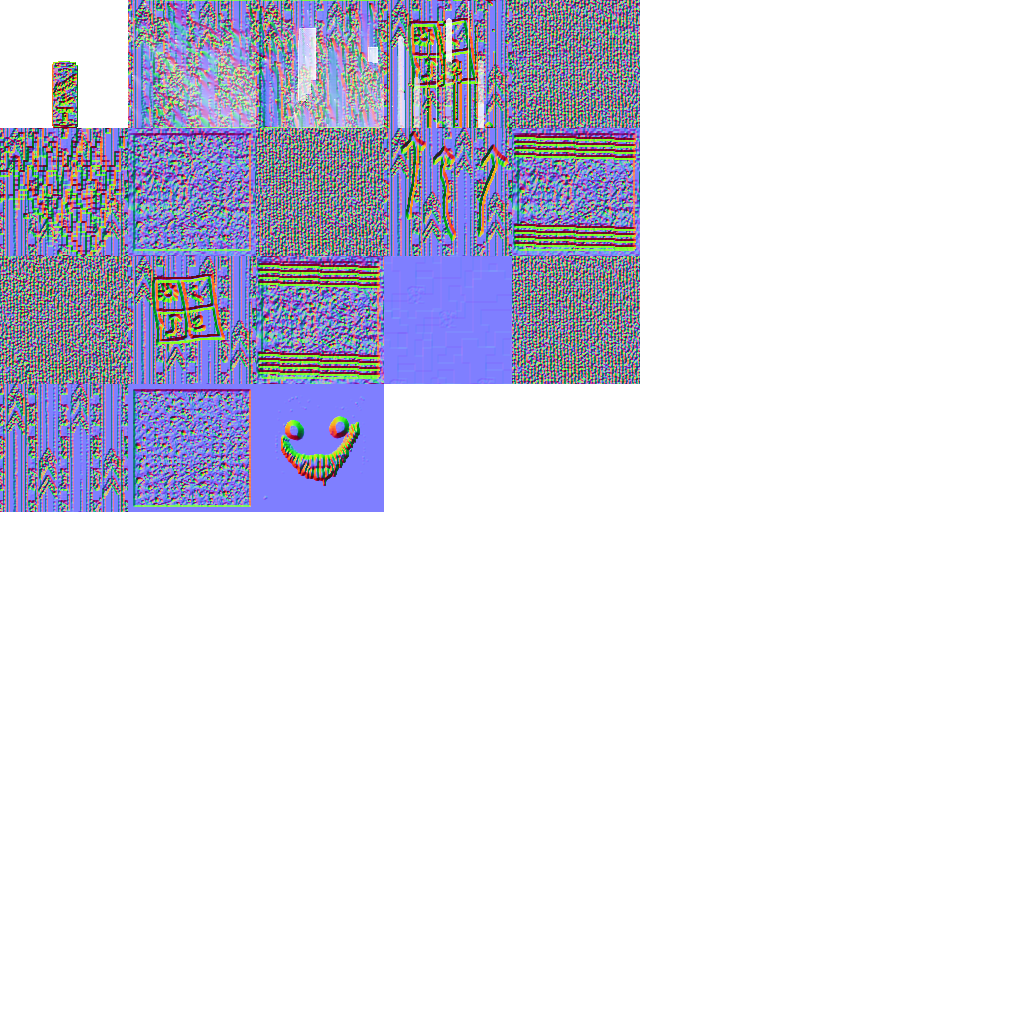
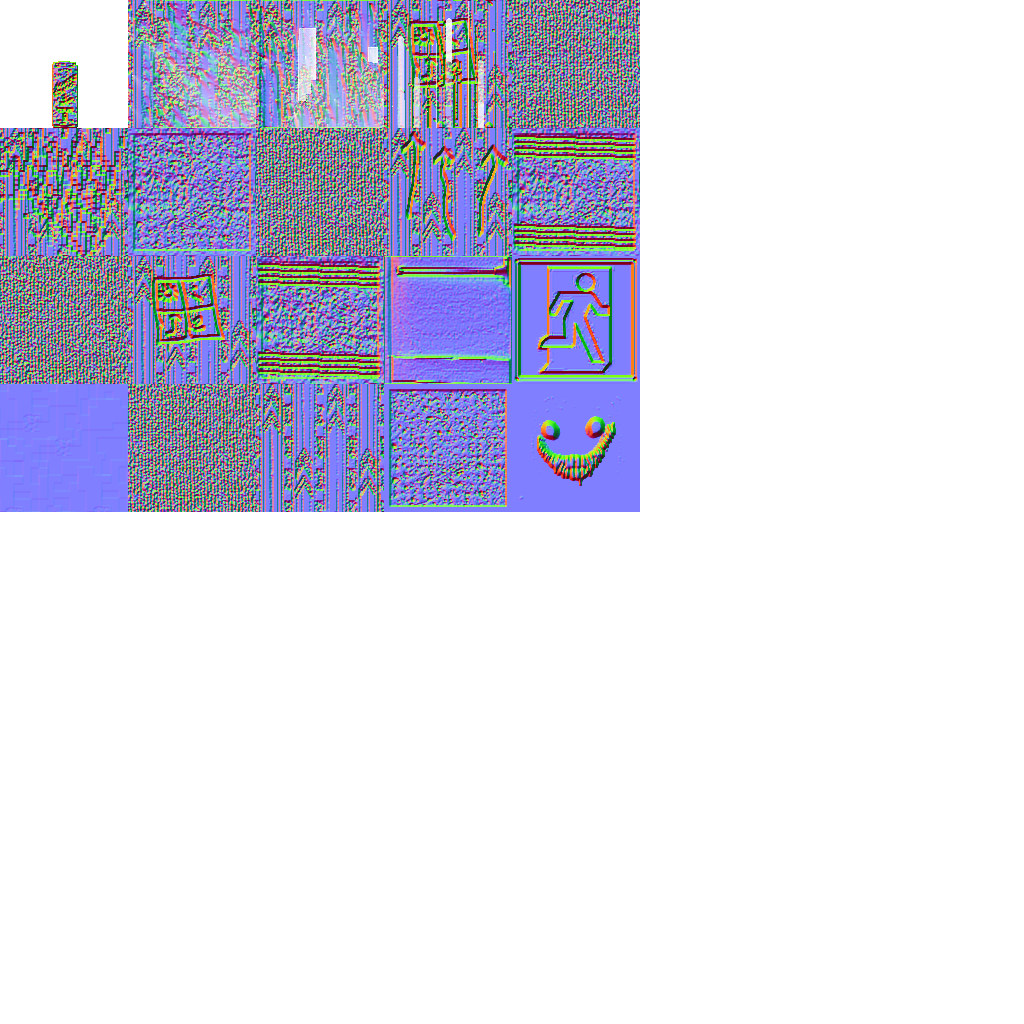
actual ending almost added

Changed region(s): [[0.0, 0.25, 0.625, 0.5]]

diff --git a/src/liminal.rs b/src/liminal.rs
@@ -243,9 +243,9 @@ impl application::Application for Liminal
           self.world.update_chunks(self.camera.inner.position, self.frame.dt);
           self.smilers.update(&self.player, self.frame.dt);
 
-          if self.almond_waters > 100 || self.player.collider.center().y > 100.0
+          if self.almond_waters > 100
           {
-               log::error!("Nice job! You escaped by finding the 100 almond waters or climbing 100 meters");
+               log::error!("Nice job! You escaped by finding the 100 almond waters");
                input.request_quit = !input.request_quit;
           }
 
@@ -309,50 +309,42 @@ impl application::Application for Liminal
 
                     if rand::random_bool(0.025)
                     {
+                         let position = self.camera.inner.position
+                              + glam::vec3(
+                                   rand::random_range(-256.0 .. 256.0),
+                                   rand::random_range(-8.0 .. 8.0),
+                                   rand::random_range(-256.0 .. 256.0),
+                              );
+                         self.smilers.add_smiler(transform::Transform::from_position(position));
                          self.sounds.named_sound_directional(
                               &mut self.audio,
                               "follow",
-                              self.camera.inner.position - self.camera.inner.forward(),
+                              self.camera.inner.position - self.camera.inner.forward() * 10.0,
                          );
-
-                         self.smilers.add_smiler(transform::Transform::from_position(
-                              self.camera.inner.position
-                                   + glam::vec3(
-                                        rand::random_range(-256.0 .. 256.0),
-                                        rand::random_range(-8.0 .. 8.0),
-                                        rand::random_range(-256.0 .. 256.0),
-                                   ),
-                         ));
-                    }
-                    if rand::random_bool(0.005)
-                    {
-                         self.smilers.add_smiler(transform::Transform::from_position(
-                              self.camera.inner.position
-                                   + glam::vec3(
-                                        rand::random_range(-256.0 .. 256.0),
-                                        rand::random_range(-8.0 .. 8.0),
-                                        rand::random_range(-256.0 .. 256.0),
-                                   ),
-                         ));
                     }
                }
           }
           if input.consume_mouse_right_press()
           {
-               // self.smilers.add_smiler(transform::Transform::from_position(
-               //      self.camera.inner.position
-               //           + glam::vec3(
-               //                rand::random_range(-64.0 .. 64.0),
-               //                rand::random_range(-8.0 .. 8.0),
-               //                rand::random_range(-64.0 .. 64.0),
-               //           ),
-               // ));
-
                self.camera.fov -= 32.0;
+               self.sounds.named_sound(&mut self.audio, "music");
+               let position = self.camera.inner.position
+                    + glam::vec3(
+                         rand::random_range(-256.0 .. 256.0),
+                         rand::random_range(-8.0 .. 8.0),
+                         rand::random_range(-256.0 .. 256.0),
+                    );
+               self.smilers.add_smiler(transform::Transform::from_position(position));
+               self.sounds.named_sound_directional(
+                    &mut self.audio,
+                    "follow",
+                    self.camera.inner.position - self.camera.inner.forward() * 10.0,
+               );
           }
           if input.consume_mouse_right_release()
           {
                self.camera.fov += 32.0;
+               self.sounds.named_sound_stop("music");
           }
 
           let mut unadd = Vec::new();
@@ -363,13 +355,22 @@ impl application::Application for Liminal
                          .dot(self.camera.inner.forward())
                          > 0.75
                {
-                    self.sounds.named_sound_attenuated(&mut self.audio, "puff", 24.0);
+                    self.sounds.named_sound_attenuated(&mut self.audio, "puff", 8.0);
                     unadd.push(index);
                }
           }
           for index in unadd
           {
                self.smilers.unadd_smiler(index);
+          }
+
+          if self.frame.tick.is_multiple_of(5000)
+          {
+               self.sounds.named_sound_directional(
+                    &mut self.audio,
+                    "bulbbreak",
+                    self.camera.inner.position + self.camera.inner.forward() * -10.0,
+               );
           }
 
           if let Some(listener) = &mut self.sounds.listener
@@ -411,7 +412,7 @@ impl application::Application for Liminal
                     }
                     if input.get_key_pres("space")
                     {
-                         self.player.kinematics.jump(9.5);
+                         self.player.kinematics.jump(8.0);
                     }
                     if input.get_key_pres("shiftleft")
                     {
@@ -427,7 +428,7 @@ impl application::Application for Liminal
                     let movement = (right * dx + forward * dz).normalize_or_zero();
                     self.player.kinematics.velocity.x += movement.x * frame_movement_speed * self.frame.dt;
                     self.player.kinematics.velocity.z += movement.z * frame_movement_speed * self.frame.dt;
-                    self.player.kinematics.apply_gravity(32.0, self.frame.dt);
+                    self.player.kinematics.apply_gravity(28.0, self.frame.dt);
                     self.player.kinematics.apply_drag(24.0, self.frame.dt);
                     self.player.collider =
                          self.player.kinematics.translate(self.player.collider, &self.world, self.frame.dt);

diff --git a/src/terrain/escape.rs b/src/terrain/escape.rs
@@ -1,0 +1,39 @@
+#![allow(unused)]
+
+use crate::engine::neighbors;
+use crate::terrain;
+use crate::world;
+use crate::world::block;
+use crate::world::delta;
+
+#[derive(Debug)]
+pub struct Escape;
+
+impl terrain::BiomeGeneration for Escape
+{
+     fn generate(
+          &self,
+          chunk: &mut world::chunk::Chunk,
+          noise: &noise::Perlin,
+          config: &terrain::TerrainConfig,
+          deltas: &mut delta::BlockDeltas,
+     )
+     {
+          let size = chunk.size();
+          for z in 0 .. size.z
+          {
+               for x in 0 .. size.x
+               {
+                    let coord = glam::ivec3(x, size.y - 1, z);
+                    *chunk.get_mut(coord) = block::Block::wall_block(0.5);
+               }
+          }
+
+          if chunk.world_position().y > 32
+          {
+               *chunk.get_mut(glam::ivec3(size.x / 2, 0, size.z / 2)) = block::Block::ExitDoor;
+               *chunk.get_mut(glam::ivec3(size.x / 2, 1, size.z / 2)) = block::Block::ExitDoor;
+               *chunk.get_mut(glam::ivec3(size.x / 2, 2, size.z / 2)) = block::Block::ExitSign;
+          }
+     }
+}

diff --git a/src/engine/player.rs b/src/engine/player.rs
@@ -48,6 +48,7 @@ pub struct PlayerHeadBobber
      pub minor_amp: f32,
 
      velocity_coeff: f32,
+     pub zero_velocity: f32,
 }
 
 impl PlayerHeadBobber
@@ -59,7 +60,8 @@ impl PlayerHeadBobber
                minor_freq: f32::consts::TAU * 4.0,
                major_amp: 0.05,
                minor_amp: 0.0125,
-               velocity_coeff: 1.0 / 3.0,
+               velocity_coeff: 0.25,
+               zero_velocity: 0.05,
           }
      }
 
@@ -75,7 +77,7 @@ impl PlayerHeadBobber
           let up = camera.inner.up();
           let right = camera.inner.right();
           let velocity = kinematics.velocity.with_y(0.0).length();
-          let wobble_factor = self.velocity_coeff * velocity;
+          let wobble_factor = self.velocity_coeff * velocity + self.zero_velocity;
 
           right * (cmaj * self.major_amp + cmin * self.minor_amp) * wobble_factor
                + up * (smaj * self.major_amp + smin * self.minor_amp) * wobble_factor
@@ -90,7 +92,8 @@ pub struct PlayerSoundController
      pub ambience: Option<static_sound::StaticSoundData>,
      pub listener: Option<listener::ListenerHandle>,
 
-     pub tracks: Vec<track::SpatialTrackHandle>,
+     pub spatial_tracks: Vec<track::SpatialTrackHandle>,
+     pub tracks: Vec<(static_sound::StaticSoundHandle, &'static str)>,
 
      last_sound: usize,
      last_sound_time: f32,
@@ -145,6 +148,7 @@ impl PlayerSoundController
           }
 
           let listener = None;
+          let spatial_tracks = Vec::new();
           let tracks = Vec::new();
 
           Ok(Self {
@@ -152,6 +156,7 @@ impl PlayerSoundController
                walking_sound,
                ambience,
                listener,
+               spatial_tracks,
                tracks,
 
                last_sound: 0,
@@ -172,26 +177,36 @@ impl PlayerSoundController
           log::error!("Error playing ambience track");
      }
 
-     pub fn named_sound(&self, audio: &mut kira::AudioManager, name: &str)
+     pub fn named_sound(&mut self, audio: &mut kira::AudioManager, name: &'static str)
      {
           if let Some(sound) = self.named_sounds.get(name)
           {
-               audio.play(sound.clone()).unwrap();
+               self.tracks.push((audio.play(sound.clone()).unwrap(), name));
                return;
           }
 
           log::error!("Error playing named audio");
      }
 
-     pub fn named_sound_attenuated(&self, audio: &mut kira::AudioManager, name: &str, db: f32)
+     pub fn named_sound_attenuated(&mut self, audio: &mut kira::AudioManager, name: &'static str, db: f32)
      {
           if let Some(sound) = self.named_sounds.get(name)
           {
-               audio.play(sound.clone().volume(db)).unwrap();
+               self.tracks.push((audio.play(sound.clone().volume(db)).unwrap(), name));
                return;
           }
 
           log::error!("Error playing named audio");
+     }
+
+     pub fn named_sound_stop(&mut self, name: &'static str)
+     {
+          self.tracks.iter_mut().for_each(|(handle, track_name)| {
+               if *track_name == name
+               {
+                    handle.stop(kira::Tween::default());
+               }
+          });
      }
 
      pub fn named_sound_directional(
@@ -201,14 +216,14 @@ impl PlayerSoundController
           location: glam::Vec3,
      )
      {
-          self.tracks.retain_mut(|track| track.state() != track::TrackPlaybackState::Paused);
+          self.spatial_tracks.retain_mut(|track| track.state() != track::TrackPlaybackState::Paused);
           if let (Some(sound), Some(listener)) = (self.named_sounds.get(name), self.listener.as_ref())
           {
                let mut track = audio
                     .add_spatial_sub_track(listener, location, kira::track::SpatialTrackBuilder::default())
                     .unwrap();
                track.play(sound.clone()).unwrap();
-               self.tracks.push(track);
+               self.spatial_tracks.push(track);
                return;
           }
 

diff --git a/src/terrain/mod.rs b/src/terrain/mod.rs
@@ -2,6 +2,7 @@ pub mod dark_maze;
 pub mod debugging_biome;
 pub mod empty;
 pub mod empty_dark;
+pub mod escape;
 pub mod maze;
 pub mod parkour;
 pub mod pillars;
@@ -87,7 +88,7 @@ impl TerrainGenerator
                .weird_noise(
                     NoiseLayer::builder()
                          .offset(glam::DVec3::splat(-90.18973095))
-                         .freq(glam::dvec3(0.5, 0.1, 0.5))
+                         .freq(glam::dvec3(1.5, 0.5, 1.5))
                          .build(),
                )
                .feature_noise(
@@ -135,17 +136,26 @@ impl TerrainGenerator
                     .biome_center(0.5)
                     .weird_center(0.1)
                     .generator(Box::new(pillars::Pillars))
+                    // .generator(Box::new(debugging_biome::DebuggingBiome))
                     .build(),
                BiomePoint::builder()
                     .biome_center(0.6)
                     .weird_center(0.9)
                     .weight(1.5)
                     .generator(Box::new(pitfalls::Pitfalls))
+                    // .generator(Box::new(debugging_biome::DebuggingBiome))
                     .build(),
                BiomePoint::builder()
                     .biome_center(0.1)
                     .weird_center(0.9)
                     .generator(Box::new(superliminal::SuperLiminal))
+                    // .generator(Box::new(debugging_biome::DebuggingBiome))
+                    .build(),
+               BiomePoint::builder()
+                    .biome_center(0.0)
+                    .weird_center(1.0)
+                    .weight(2.0)
+                    .generator(Box::new(escape::Escape))
                     .build(),
           ];
 

diff --git a/src/world/block.rs b/src/world/block.rs
@@ -38,6 +38,8 @@ pub enum Block
      Corrupt1,
      Corrupt2,
      Corrupt3,
+     ExitSign,
+     ExitDoor,
      BlockCounter,
 }
 
@@ -54,6 +56,8 @@ impl Block
           Block::Corrupt1,
           Block::Corrupt2,
           Block::Corrupt3,
+          Block::ExitSign,
+          Block::ExitDoor,
      ];
      const SPECIAL: [Block; 3] = [Block::Distressed1, Block::Distressed2, Block::Distressed3];
      const CORRUPT: [Block; 3] = [Block::Corrupt1, Block::Corrupt2, Block::Corrupt3];
@@ -83,6 +87,8 @@ impl Block
                | Block::Corrupt1 => "corrupt1",
                | Block::Corrupt2 => "corrupt2",
                | Block::Corrupt3 => "corrupt3",
+               | Block::ExitSign => "exitsign",
+               | Block::ExitDoor => "door",
                | Block::BlockCounter => "",
           }
      }
@@ -94,6 +100,10 @@ impl Block
                | Block::Air => light::Light::new(0),
                | Block::Light => light::Light::new(0),
                | Block::AlmondWater => light::Light::new(0),
+               | Block::ExitSign => light::Light::new(0),
+               | Block::Corrupt1 => light::Light::new(3),
+               | Block::Corrupt2 => light::Light::new(3),
+               | Block::Corrupt3 => light::Light::new(3),
                | _ => light::Light::max_light(),
           }
      }
@@ -116,6 +126,7 @@ impl Block
                | Block::Corrupt1 => Some(light::Light::new(2)),
                | Block::Corrupt2 => Some(light::Light::new(3)),
                | Block::Corrupt3 => Some(light::Light::new(4)),
+               | Block::ExitSign => Some(light::Light::new(8)),
                | _ => None,
           }
      }

diff --git a/src/lifeforms/smiler.rs b/src/lifeforms/smiler.rs
@@ -60,7 +60,7 @@ impl FollowCubeManager
      {
           let mut mesh = rectilinear::RectilinearMesh::unit_cube();
           mesh.shift(glam::Vec3::splat(-0.5));
-          mesh.scale(glam::Vec3::splat(2.5));
+          mesh.scale(glam::Vec3::splat(1.75));
 
           let mut vertices = Vec::new();
           (0 .. mesh.size).for_each(|index| {

diff --git a/src/terrain/empty_dark.rs b/src/terrain/empty_dark.rs
@@ -41,6 +41,7 @@ impl terrain::BiomeGeneration for EmptyDark
                     let coord = glam::ivec3(x, 0, z);
                     if config.random_noise.sample(noise, world_coord.as_dvec3()) > 0.875
                     {
+                         // *chunk.get_mut(coord) = block::Block::ExitSign;
                          *chunk.get_mut(coord) = block::Block::AlmondWater;
                     }
                }